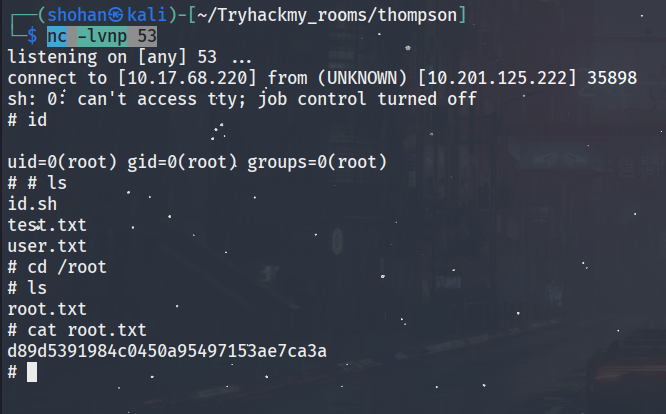
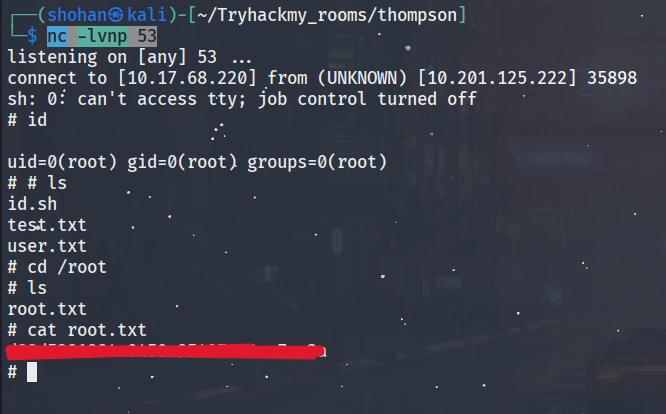
Update the WriteUp

Changed region(s): [[0.0, 0.8116, 0.5105, 0.8696]]

diff --git a/src/content/posts/Thompson.md b/src/content/posts/Thompson.md
@@ -49,7 +49,7 @@ When you cancel the authentication required pop-up, you will get the credentials
 
 **username**: `tomcat`
 
-**passsword**: `s3cret`
+**passsword**: `******`
 
 ![image.png](assets/thompson/image%202.png)
 
@@ -117,12 +117,9 @@ nc -lvnp 53
 
 ![image.png](assets/thompson/image%2011.png)
 
-root.txt flag: **`d89d5391984c0450a95497153ae7ca3a`**
-
 # Summary
 
 - Logged into Tomcat with default credentials.
 - Uploaded a reverse shell via the WAR backdoor exploit.
 - Gained shell access as the Tomcat user.
 - Escalated privileges to root by modifying a cron-executed script.
-- Captured the root flag: d89d5391984c0450a95497153ae7ca3a
